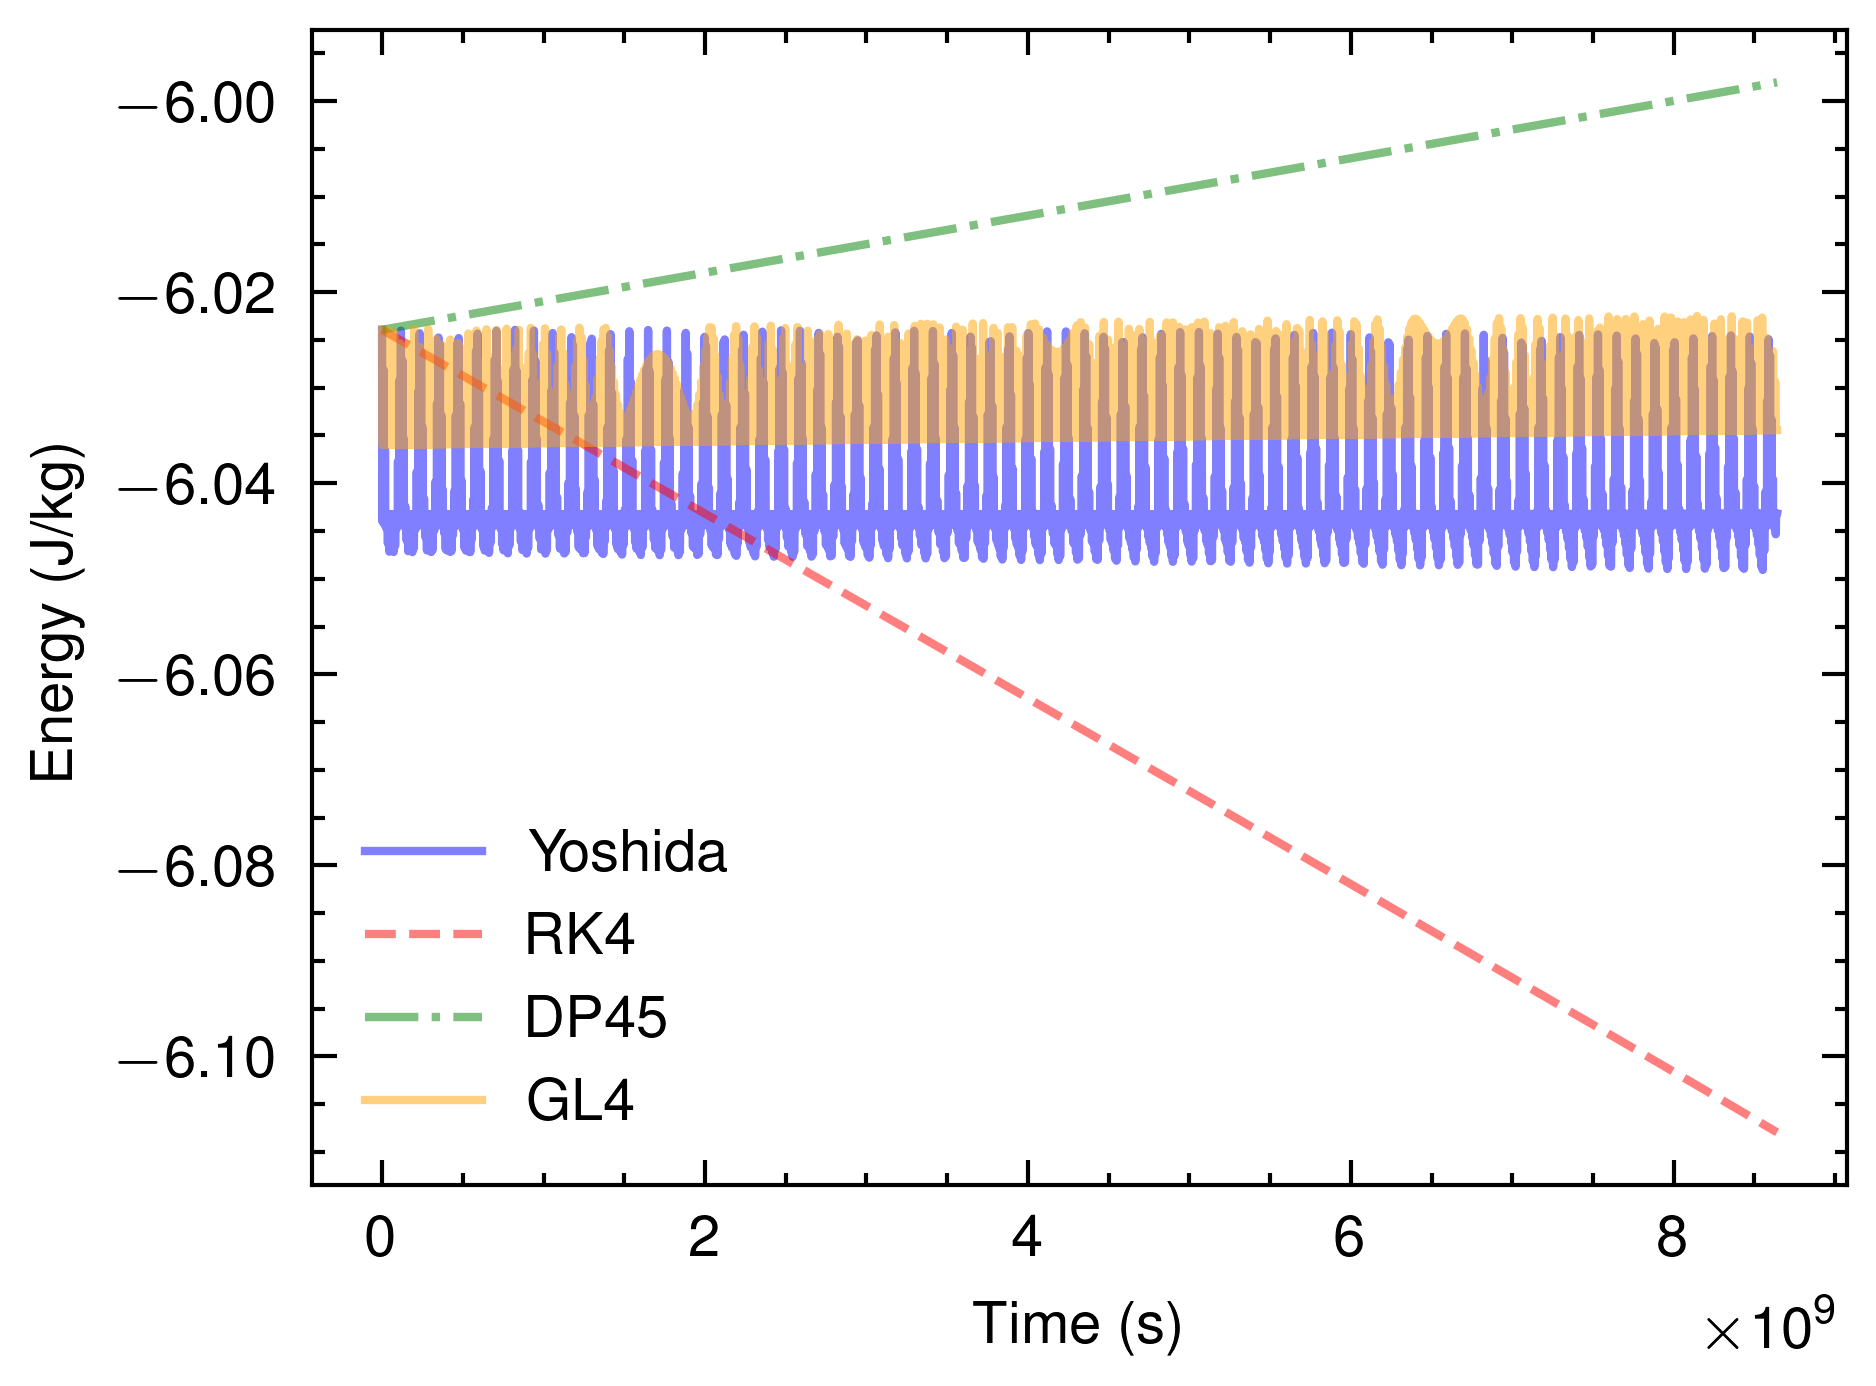
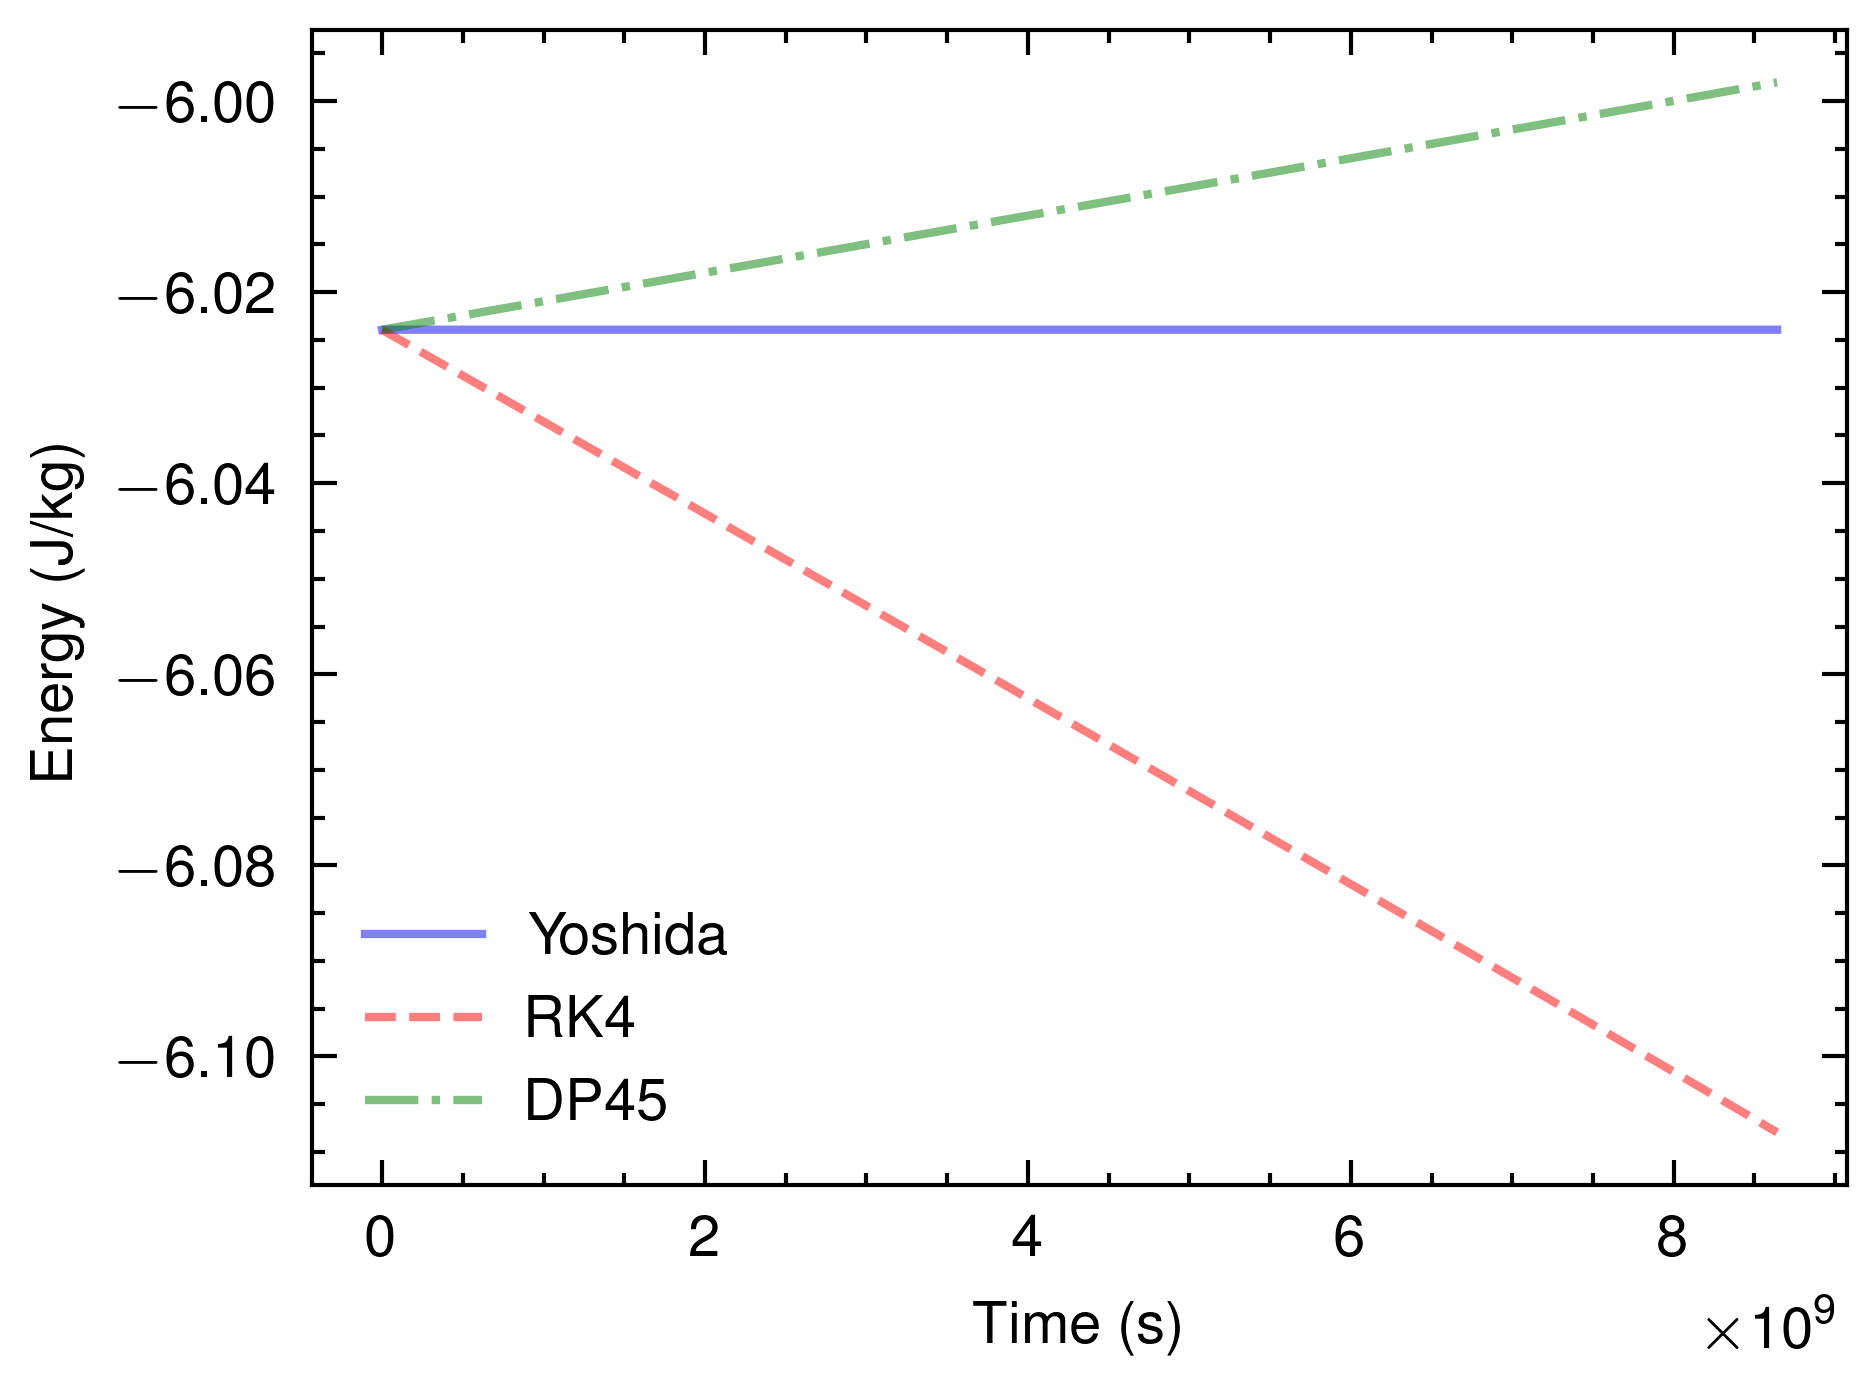
Except GL4

diff --git a/scratch/src/main.rs b/scratch/src/main.rs
@@ -408,10 +408,16 @@ impl YoshidaSolver {
         let mut q = pos_init.to_vec();
         let mut p = vel_init.to_vec();
 
-        let acceleration = |q: &[f64]| -> Vec<f64> {
-            let r = q.iter().map(|&qi| qi * qi).sum::<f64>().sqrt();
-            let r3 = r * r * r;
-            q.iter().map(|&qi| -MU * qi / r3).collect::<Vec<f64>>()
+        let acceleration = |q: &[f64], p: &[f64]| {
+            let state = State {
+                x: q[0],
+                y: q[1],
+                z: q[2],
+                vx: p[0],
+                vy: p[1],
+                vz: p[2],
+            };
+            self.problem.calc_deriv(&state)[pos_dim..].to_vec()
         };
 
         for i in 1..total_steps {
@@ -420,7 +426,7 @@ impl YoshidaSolver {
                 q[k] += c[0] * dt * p[k];
             }
             // Step 2: Kick with d[0]
-            let a = acceleration(&q);
+            let a = acceleration(&q, &p);
             for k in 0..pos_dim {
                 p[k] += d[0] * dt * a[k];
             }
@@ -429,7 +435,7 @@ impl YoshidaSolver {
                 q[k] += c[1] * dt * p[k];
             }
             // Step 4: Kick with d[1]
-            let a = acceleration(&q);
+            let a = acceleration(&q, &p);
             for k in 0..pos_dim {
                 p[k] += d[1] * dt * a[k];
             }
@@ -438,7 +444,7 @@ impl YoshidaSolver {
                 q[k] += c[2] * dt * p[k];
             }
             // Step 6: Kick with d[2]
-            let a = acceleration(&q);
+            let a = acceleration(&q, &p);
             for k in 0..pos_dim {
                 p[k] += d[2] * dt * a[k];
             }

diff --git a/scratch/pq_plot.py b/scratch/pq_plot.py
@@ -56,6 +56,6 @@ with plt.style.context(["science", "nature"]):
     ax.plot(t_yoshida, E_yoshida, label='Yoshida', color='blue', alpha=0.5)
     ax.plot(t_rk4, E_rk4, label='RK4', color='red', linestyle='--', alpha=0.5)
     ax.plot(t_dp45, E_dp45, label='DP45', color='green', linestyle='-.', alpha=0.5)
-    ax.plot(t_gl4, E_gl4, label='GL4', color='orange', linestyle='-', alpha=0.5)
+    #ax.plot(t_gl4, E_gl4, label='GL4', color='orange', linestyle='-', alpha=0.5)
     ax.legend()
     fig.savefig(f'plot_energy_{dynamics}.png', dpi=600, bbox_inches='tight')
